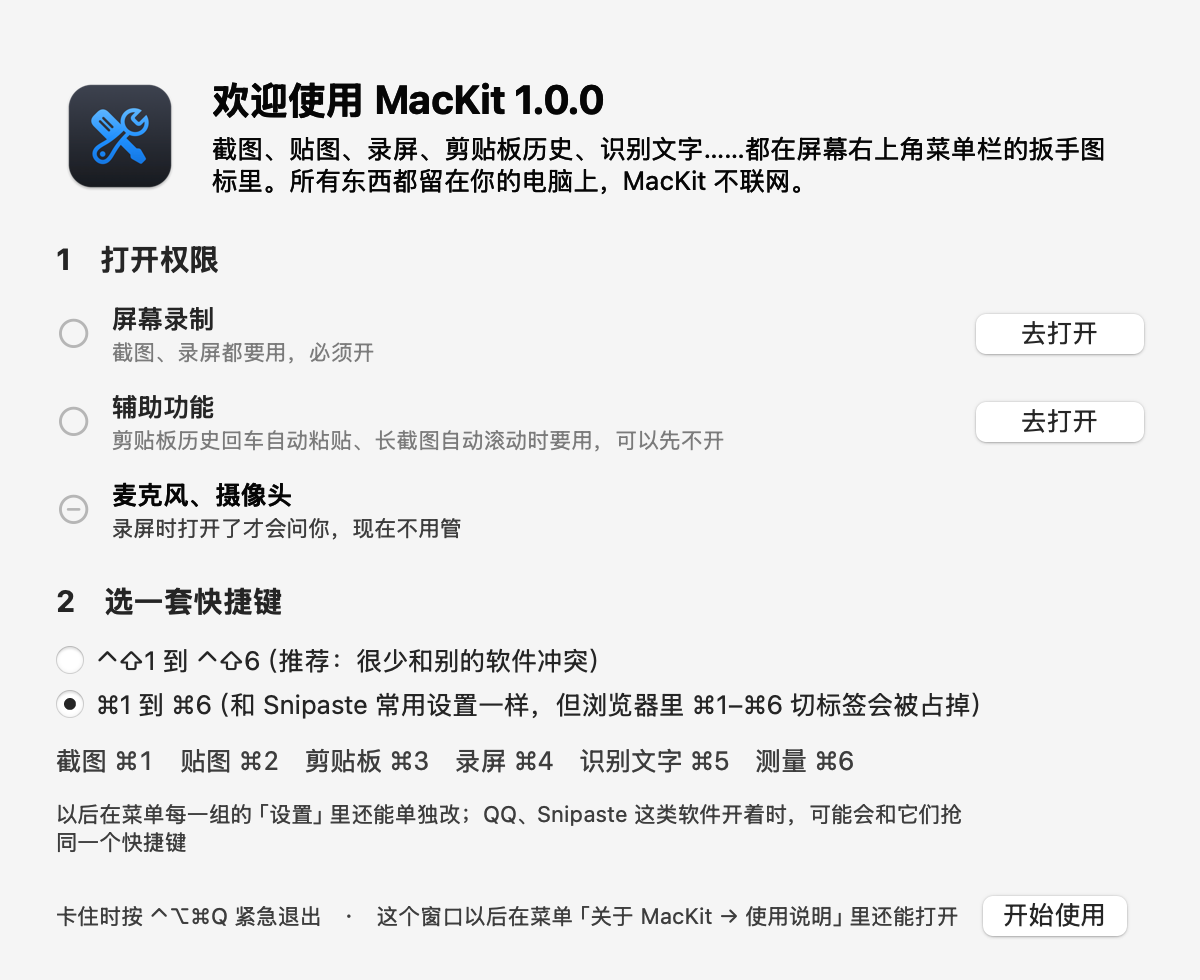
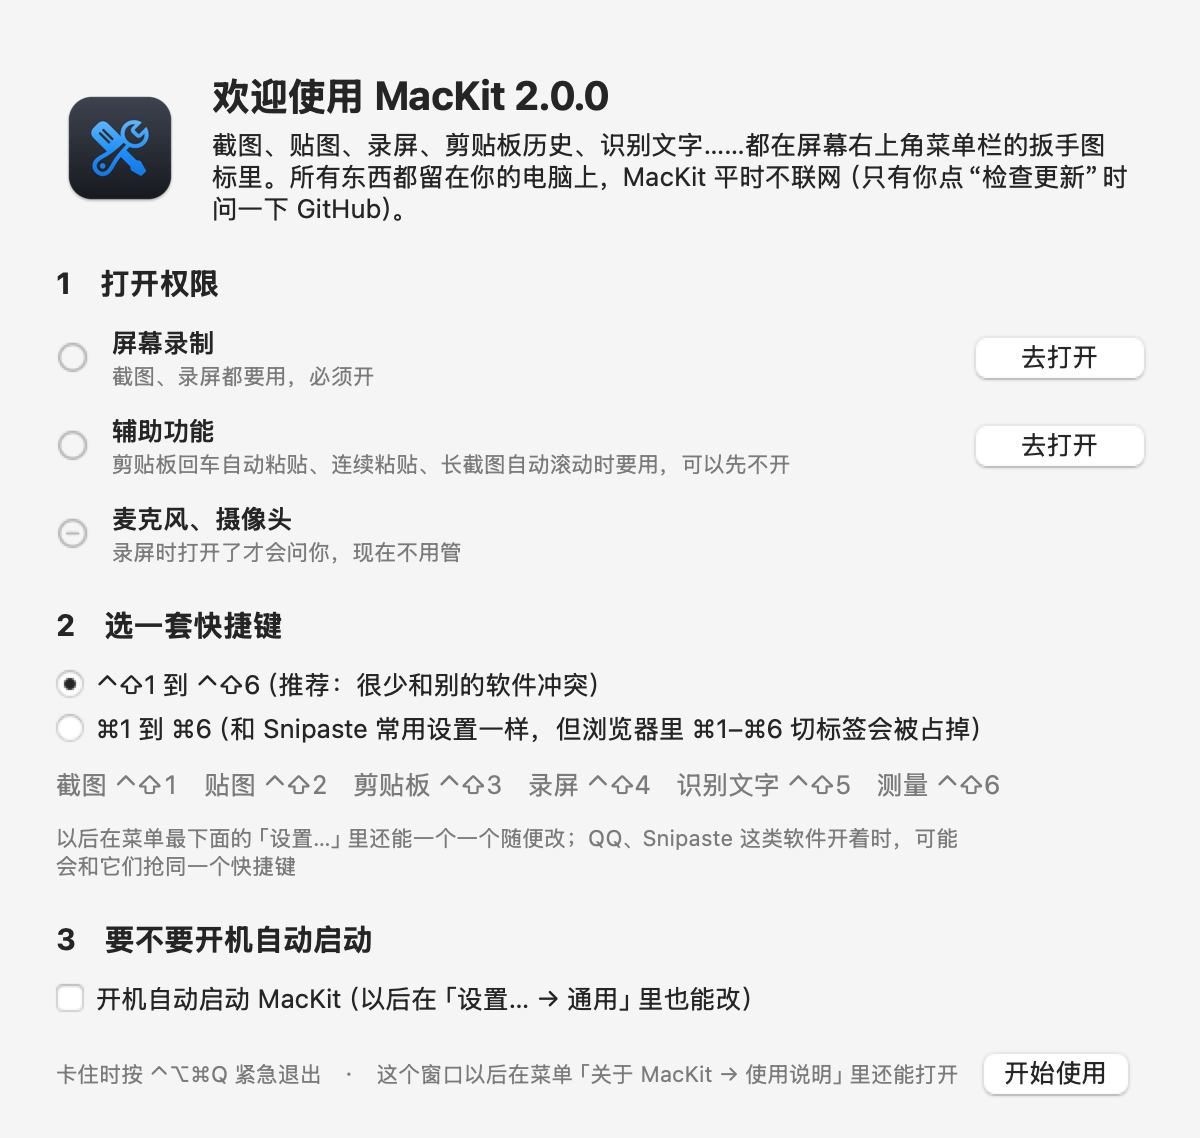
MacKit 2.0.0（台阶 18）
- 从 1.x 升上来第一次打开弹一次“MacKit 2.0 装好了”，“看看都有什么”打开更新说明；新用户只有欢迎窗口
- README 写上第二版的新东西，权限、常见问题补上辅助功能；重画界面一览、欢迎窗口，新加设置窗口的图
- CHANGELOG 2.0.0
- 新增自检 5 条

diff --git a/MacKit/App/StylePreview.swift b/MacKit/App/StylePreview.swift
@@ -14,50 +14,110 @@ enum StylePreview {
     static func runWelcome(arguments: [String]) {
         guard let i = arguments.firstIndex(of: "--welcome-preview"), arguments.indices.contains(i + 1) else { exit(2) }
         let dark = arguments.contains("dark")
+        useNewUserHotKeys()                                   // 画新用户看到的样子：⌃⇧ 那套选着
         let w = WelcomeWindow()
-        guard let content = w.window.contentView else { exit(1) }
-        content.appearance = NSAppearance(named: dark ? .darkAqua : .aqua)
-        content.layoutSubtreeIfNeeded()
-        content.displayIfNeeded()
-        guard let rep = content.bitmapImageRepForCachingDisplay(in: content.bounds) else { exit(1) }
-        content.cacheDisplay(in: content.bounds, to: rep)
-        guard let image = rep.cgImage, let space = CGColorSpace(name: CGColorSpace.sRGB),
-              let ctx = CGContext(data: nil, width: image.width, height: image.height, bitsPerComponent: 8, bytesPerRow: 0,
-                                  space: space, bitmapInfo: CGImageAlphaInfo.premultipliedLast.rawValue) else { exit(1) }
-        ctx.setFillColor((dark ? NSColor(white: 0.16, alpha: 1) : NSColor(white: 0.96, alpha: 1)).cgColor)
-        ctx.fill(CGRect(x: 0, y: 0, width: image.width, height: image.height))
-        ctx.draw(image, in: CGRect(x: 0, y: 0, width: image.width, height: image.height))
-        guard let out = ctx.makeImage(), write(out, to: arguments[i + 1]) else { exit(1) }
+        guard let content = w.window.contentView,
+              let out = renderView(content, dark: dark, background: dark ? NSColor(white: 0.16, alpha: 1) : NSColor(white: 0.96, alpha: 1),
+                                   fit: false),
+              write(out, to: arguments[i + 1]) else { exit(1) }
         print("欢迎窗口：\(arguments[i + 1])　\(out.width)×\(out.height)")
         exit(0)
     }
 
-    /// 设置窗口五页各画一张图（不弹窗口、不改设置）：--settings-preview 输出前缀 [dark] → 前缀-通用.png …
+    /// 设置窗口画成图（不弹窗口、不改设置）：
+    ///   --settings-preview 输出前缀 [dark]         → 五页各一张：前缀-通用.png …
+    ///   --settings-preview 输出.png readme [dark]  → README 用的一张：上面一排分页（照着系统样子画的）+ 快捷键页
     static func runSettings(arguments: [String]) {
         guard let i = arguments.firstIndex(of: "--settings-preview"), arguments.indices.contains(i + 1) else { exit(2) }
         let dark = arguments.contains("dark")
+        let background = dark ? NSColor(white: 0.16, alpha: 1) : NSColor(white: 0.93, alpha: 1)
         var hooks = SettingsHooks()
         hooks.dryRun = true
         let settings = SettingsWindow(hooks: hooks)
+        if arguments.contains("readme") {
+            useNewUserHotKeys()
+            guard let pane = settings.panes[.shortcuts]?.view else { exit(1) }
+            let page = settingsReadmeView(pane: pane, selected: .shortcuts)
+            guard let out = renderView(page, dark: dark, background: background), write(out, to: arguments[i + 1]) else { exit(1) }
+            print("设置窗口：\(arguments[i + 1])　\(out.width)×\(out.height)")
+            exit(0)
+        }
         for pane in SettingsWindow.Pane.allCases {
-            guard let view = settings.panes[pane]?.view else { exit(1) }
-            view.appearance = NSAppearance(named: dark ? .darkAqua : .aqua)
-            view.setFrameSize(view.fittingSize)
-            view.layoutSubtreeIfNeeded()
-            view.displayIfNeeded()
-            guard let rep = view.bitmapImageRepForCachingDisplay(in: view.bounds) else { exit(1) }
-            view.cacheDisplay(in: view.bounds, to: rep)
-            guard let image = rep.cgImage, let space = CGColorSpace(name: CGColorSpace.sRGB),
-                  let ctx = CGContext(data: nil, width: image.width, height: image.height, bitsPerComponent: 8, bytesPerRow: 0,
-                                      space: space, bitmapInfo: CGImageAlphaInfo.premultipliedLast.rawValue) else { exit(1) }
-            ctx.setFillColor((dark ? NSColor(white: 0.16, alpha: 1) : NSColor(white: 0.93, alpha: 1)).cgColor)
-            ctx.fill(CGRect(x: 0, y: 0, width: image.width, height: image.height))
-            ctx.draw(image, in: CGRect(x: 0, y: 0, width: image.width, height: image.height))
+            guard let view = settings.panes[pane]?.view, let out = renderView(view, dark: dark, background: background) else { exit(1) }
             let path = "\(arguments[i + 1])-\(pane.title).png"
-            guard let out = ctx.makeImage(), write(out, to: path) else { exit(1) }
+            guard write(out, to: path) else { exit(1) }
             print("设置 \(pane.title)：\(path)　\(out.width)×\(out.height)")
         }
         exit(0)
+    }
+
+    /// README 里画新用户默认的 ⌃⇧1–⌃⇧6：只在这个进程的内存里换（不写进你的设置）
+    private static func useNewUserHotKeys() {
+        let c = HotKeyScheme.control.indices
+        let temp: [String: Any] = ["screenshot.hotkeyIndex": c[0], "pin.hotkeyIndex": c[1], "clipboard.hotkeyIndex": c[2],
+                                   "record.hotkeyIndex": c[3], "ocr.hotkeyIndex": c[4], "measure.hotkeyIndex": c[5]]
+        UserDefaults.standard.setVolatileDomain(temp, forName: UserDefaults.argumentDomain)
+        let saved = UserDefaults.standard.persistentDomain(forName: Bundle.main.bundleIdentifier ?? "") ?? [:]
+        for a in HotKeyAction.allCases where saved[a.storeKey] != nil { print("（你单独改过\(a.title)，图里画的是你改的）") }
+    }
+
+    /// 一个视图按它合适的大小画成图（固定 2 倍清晰度，和接哪块屏幕无关），垫上底色
+    private static func renderView(_ view: NSView, dark: Bool, background: NSColor, fit: Bool = true) -> CGImage? {
+        view.appearance = NSAppearance(named: dark ? .darkAqua : .aqua)
+        if fit { view.setFrameSize(view.fittingSize) }
+        view.layoutSubtreeIfNeeded()
+        view.displayIfNeeded()
+        guard let rep = NSBitmapImageRep(bitmapDataPlanes: nil, pixelsWide: Int(view.bounds.width * 2),
+                                         pixelsHigh: Int(view.bounds.height * 2), bitsPerSample: 8, samplesPerPixel: 4,
+                                         hasAlpha: true, isPlanar: false, colorSpaceName: .deviceRGB, bytesPerRow: 0,
+                                         bitsPerPixel: 0) else { return nil }
+        rep.size = view.bounds.size
+        view.cacheDisplay(in: view.bounds, to: rep)
+        guard let image = rep.cgImage, let space = CGColorSpace(name: CGColorSpace.sRGB),
+              let ctx = CGContext(data: nil, width: image.width, height: image.height, bitsPerComponent: 8, bytesPerRow: 0,
+                                  space: space, bitmapInfo: CGImageAlphaInfo.premultipliedLast.rawValue) else { return nil }
+        ctx.setFillColor(background.cgColor)
+        ctx.fill(CGRect(x: 0, y: 0, width: image.width, height: image.height))
+        ctx.draw(image, in: CGRect(x: 0, y: 0, width: image.width, height: image.height))
+        return ctx.makeImage()
+    }
+
+    /// README 用：窗口标题 + 一排分页图标（选中的那页蓝色）+ 那一页
+    private static func settingsReadmeView(pane: NSView, selected: SettingsWindow.Pane) -> NSView {
+        let title = NSTextField(labelWithString: "MacKit 设置")
+        title.font = .systemFont(ofSize: 13, weight: .semibold)
+        var tabs: [NSView] = []
+        for p in SettingsWindow.Pane.allCases {
+            let on = p == selected
+            let icon = NSImageView(image: NSImage(systemSymbolName: p.symbol, accessibilityDescription: p.title)?
+                .withSymbolConfiguration(.init(pointSize: 20, weight: .regular)) ?? NSImage())
+            icon.contentTintColor = on ? Theme.accent : .secondaryLabelColor
+            let label = NSTextField(labelWithString: p.title)
+            label.font = .systemFont(ofSize: 11)
+            label.textColor = on ? Theme.accent : .secondaryLabelColor
+            let item = NSStackView(views: [icon, label])
+            item.orientation = .vertical
+            item.spacing = 3
+            item.edgeInsets = NSEdgeInsets(top: 5, left: 10, bottom: 5, right: 10)
+            item.wantsLayer = true
+            item.layer?.cornerRadius = 6
+            if on { item.layer?.backgroundColor = NSColor.secondaryLabelColor.withAlphaComponent(0.12).cgColor }
+            tabs.append(item)
+        }
+        let strip = NSStackView(views: tabs)
+        strip.spacing = 4
+        let divider = NSBox()
+        divider.boxType = .separator
+        let head = NSStackView(views: [title, strip])
+        head.orientation = .vertical
+        head.spacing = 8
+        head.edgeInsets = NSEdgeInsets(top: 12, left: 0, bottom: 10, right: 0)
+        let page = NSStackView(views: [head, divider, pane])
+        page.orientation = .vertical
+        page.spacing = 0
+        page.alignment = .centerX
+        divider.widthAnchor.constraint(equalTo: page.widthAnchor).isActive = true
+        return page
     }
 
     static func run(arguments: [String]) {
@@ -93,6 +153,10 @@ enum StylePreview {
         pinBar.update(tool: .arrow, color: .red, size: .medium, canUndo: true, canRedo: false)
         list.append(Sample(title: "贴图上标注的工具栏", view: pinBar))
 
+        let penBar = AnnotationToolbar(mode: .liveDraw, standalone: true)
+        penBar.update(tool: .pen, color: .red, size: .medium, canUndo: true, canRedo: false)
+        list.append(Sample(title: "屏幕画笔的小工具（录屏时、开会共享屏幕时在屏幕上画）", view: penBar))
+
         list.append(Sample(title: "按钮：普通 / 鼠标放上去 / 按下 / 选中 / 主按钮 / 停止", view: buttonStrip()))
 
         let control = RecordingControlBar(systemAudio: true, microphone: false)
@@ -118,6 +182,9 @@ enum StylePreview {
                                           actions: [("预览剪辑", {}), ("存成 GIF", {}), ("在访达中显示", {})]).contentView {
             list.append(Sample(title: "带按钮的提示条", view: v))
         }
+        let queue = PasteQueueBar()
+        queue.update("连续粘贴 2 / 5　下一条：发票抬头：某某公司")
+        if let v = queue.panel.contentView { list.append(Sample(title: "连续粘贴的小条（每按一次 ⌘V 贴下一条）", view: v)) }
 
         let keys = KeyCastWindow()
         keys.show("⌘C", present: false)

diff --git a/MacKit/Core/Settings.swift b/MacKit/Core/Settings.swift
@@ -382,10 +382,17 @@ enum Settings {
         set { store.set(newValue, forKey: "welcome.done") }
     }
 
+    /// 上次打开的是哪个版本（2.0 起记；nil = 2.0 以前的版本没记过）
+    static var lastVersion: String? {
+        get { store.string(forKey: "app.lastVersion") }
+        set { store.set(newValue, forKey: "app.lastVersion") }
+    }
+
     /// 这台电脑上以前用过 MacKit 没有：设置里有 MacKit 自己的东西，或者存过剪贴板历史
     static var hasPreviousData: Bool {
         let domain = store.persistentDomain(forName: Bundle.main.bundleIdentifier ?? "local.mackit.MacKit") ?? [:]
-        let own = domain.keys.filter { !$0.hasPrefix("NS") && !$0.hasPrefix("Apple") && !$0.hasPrefix("com.apple") && $0 != "welcome.done" }
+        let own = domain.keys.filter { !$0.hasPrefix("NS") && !$0.hasPrefix("Apple") && !$0.hasPrefix("com.apple")
+            && $0 != "welcome.done" && $0 != "app.lastVersion" }
         let support = FileManager.default.urls(for: .applicationSupportDirectory, in: .userDomainMask).first?
             .appendingPathComponent("MacKit", isDirectory: true)
         return !own.isEmpty || support.map { FileManager.default.fileExists(atPath: $0.path) } == true
@@ -428,5 +435,21 @@ enum FirstLaunch: Equatable {
     static func decide(done: Bool, hasPreviousData: Bool) -> FirstLaunch {
         if done { return .nothing }
         return hasPreviousData ? .keepOldHotKeys : .welcome
+    }
+}
+
+/// 2.0 起：以前用过 MacKit 的人，第一次打开新的大版本时弹一次"装好了"的提示条（台阶 18 拍板 A）
+enum WhatsNew {
+    /// 新用户走欢迎窗口，不弹；上次打开的大版本比现在小才弹（没记过 = 2.0 以前的 1.x）
+    static func shouldShow(firstLaunch: FirstLaunch, lastVersion: String?, current: String) -> Bool {
+        guard firstLaunch != .welcome else { return false }
+        let now = AppVersion.parts(current).first ?? 0
+        let before = lastVersion.flatMap { AppVersion.parts($0).first } ?? 1
+        return now >= 2 && now > before
+    }
+
+    static func message(for version: String) -> String {
+        let major = AppVersion.parts(version).first ?? 2
+        return "MacKit \(major).0 装好了：截图能美化、剪贴板能收藏、设置都在菜单最下面"
     }
 }

diff --git a/MacKit/App/SelfTest.swift b/MacKit/App/SelfTest.swift
@@ -2027,6 +2027,20 @@ enum SelfTest {
               && !aboutTitles.contains("看看有没有新版本")
               && AppLinks.home.absoluteString == "https://github.com/itzzan/MacKit" && AppLinks.releases.path == "/itzzan/MacKit/releases",
               "关于 MacKit：使用说明、项目主页、检查更新…")
+        // 2.0 起：老用户第一次打开新的大版本弹一次提示条（台阶 18）
+        check(WhatsNew.shouldShow(firstLaunch: .nothing, lastVersion: nil, current: "2.0.0")
+              && WhatsNew.shouldShow(firstLaunch: .keepOldHotKeys, lastVersion: nil, current: "2.0.0")
+              && WhatsNew.shouldShow(firstLaunch: .nothing, lastVersion: "1.6.0", current: "2.0.0"),
+              "从 1.x 升到 2.0：第一次打开弹\u{201C}MacKit 2.0 装好了\u{201D}")
+        check(!WhatsNew.shouldShow(firstLaunch: .welcome, lastVersion: nil, current: "2.0.0"), "新用户第一次装 2.0：只有欢迎窗口，不弹这个")
+        check(!WhatsNew.shouldShow(firstLaunch: .nothing, lastVersion: "2.0.0", current: "2.0.0")
+              && !WhatsNew.shouldShow(firstLaunch: .nothing, lastVersion: "2.0.0", current: "2.1.0"),
+              "再打开、升到 2.1：不再弹")
+        check(!WhatsNew.shouldShow(firstLaunch: .nothing, lastVersion: nil, current: "1.6.0"), "1.x 自己不弹")
+        let whatsNew = Toast.makeActionsPanel(WhatsNew.message(for: "2.0.0"), actions: [("看看都有什么", {})])
+        check(WhatsNew.message(for: "2.0.0").hasPrefix("MacKit 2.0 装好了") && whatsNew.frame.width < 760 && !whatsNew.isVisible
+              && AppLinks.releaseNotes("2.0.0").absoluteString == "https://github.com/itzzan/MacKit/releases/tag/v2.0.0",
+              "提示条写着\u{201C}MacKit 2.0 装好了\u{201D}，\u{201C}看看都有什么\u{201D}打开 GitHub 上 2.0 的更新说明（\(Int(whatsNew.frame.width)) 点宽）")
         let parts = AppInfo.version.split(separator: ".").compactMap { Int($0) }
         check(parts.count == 3 && parts[0] >= 1, "版本号是三段数字、1 以上：\(AppInfo.version)")
     }

diff --git a/MacKit/App/AppDelegate.swift b/MacKit/App/AppDelegate.swift
@@ -101,6 +101,10 @@ final class AppDelegate: NSObject, NSApplicationDelegate, NSMenuDelegate {
         case .nothing:
             break
         }
+        // 2.0 起：老用户第一次打开新的大版本弹一次提示；自检不记、不弹（和你真的设置是同一份）
+        let showWhatsNew = !selfTest
+            && WhatsNew.shouldShow(firstLaunch: firstLaunch, lastVersion: Settings.lastVersion, current: AppInfo.version)
+        if !selfTest { Settings.lastVersion = AppInfo.version }
 
         let item = NSStatusBar.system.statusItem(withLength: NSStatusItem.squareLength)
         if let button = item.button {
@@ -140,6 +144,16 @@ final class AppDelegate: NSObject, NSApplicationDelegate, NSMenuDelegate {
         if firstLaunch == .welcome {
             Settings.welcomeDone = true
             showWelcome()
+        }
+        if showWhatsNew {
+            let version = AppInfo.version
+            Log.app.notice("whats new \(version, privacy: .public)")
+            Task { @MainActor in
+                try? await Task.sleep(for: .seconds(1.5))              // 等菜单栏图标先出来
+                Toast.showActions(WhatsNew.message(for: version), actions: [
+                    ("看看都有什么", { NSWorkspace.shared.open(AppLinks.releaseNotes(version)) }),
+                ], seconds: 15)
+            }
         }
 
         if selfTest {

diff --git a/MacKit/App/WelcomeWindow.swift b/MacKit/App/WelcomeWindow.swift
@@ -5,6 +5,11 @@ import ApplicationServices
 enum AppLinks {
     static let home = URL(string: "https://github.com/itzzan/MacKit")!
     static let releases = URL(string: "https://github.com/itzzan/MacKit/releases")!
+
+    /// 某个版本的更新说明（GitHub 上的发布页）
+    static func releaseNotes(_ version: String) -> URL {
+        URL(string: "https://github.com/itzzan/MacKit/releases/tag/v\(version)")!
+    }
 }
 
 /// 欢迎窗口（1.0 起）：新用户第一次打开时出现；以后在"关于 MacKit → 使用说明"里再打开。
@@ -72,7 +77,7 @@ final class WelcomeWindow: NSObject, NSWindowDelegate {
             ScreenPermission.requestAndOpenSettings()
         }
         let access = permissionRow(key: "accessibility", title: "辅助功能",
-                                   detail: "剪贴板历史回车自动粘贴、长截图自动滚动时要用，可以先不开") {
+                                   detail: "剪贴板回车自动粘贴、连续粘贴、长截图自动滚动时要用，可以先不开") {
             ClipboardPaster.requestAccessibility()
             ClipboardPaster.openAccessibilitySettings()
         }

diff --git a/docs/开发记录/台阶18-发布2.0.md b/docs/开发记录/台阶18-发布2.0.md
@@ -1,4 +1,4 @@
-# 台阶 18：发布 MacKit 2.0 — 任务单（已拍板）
+# 台阶 18：发布 MacKit 2.0 — 任务单（已拍板，11-05 验收通过）
 
 > 2026-11-05 写，同日你审过：四条都按建议。第二版的最后一阶：把台阶 12–17 做的东西一起公开发布成 2.0。
 > 第二版方案已拍板：照旧临时签名（先不办苹果开发者计划）、检查更新只在你点的时候问 GitHub、英文界面以后再说、不做自动下载安装。
@@ -65,6 +65,28 @@
    - A. 另一台 Mac 或朋友的电脑（建议）：从头走一遍别人会走的路，开机启动也能顺便试
    - B. 你这台：会把系统记的屏幕录制、辅助功能权限换成发布版的，之后你自己的版本要重新授权一遍
    - C. 不试装，只让我查包里的东西：快，但"仍要打开"、欢迎窗口、开机启动这几步就没人走过
+
+## 做了什么、自动检查了什么（11-05）
+
+| 检查 | 结果 |
+|---|---|
+| 单元测试 188 条 | 全过 |
+| 编译（Xcode 26.3） | 没有错误和警告 |
+| 应用自检 444 条（新增 5 条：从 1.x 升上来弹一次、新用户不弹、再开和升 2.1 不弹、1.x 不弹、提示条的字和链接） | 全过；自检不记版本号、不弹提示 |
+| 你这台装 2.0.0 | ⌘1–⌘6 照旧注册，剪贴板 54 条都在；日志里"whats new 2.0.0"，弹了一次提示条 |
+| 安装包 build/release/MacKit-2.0.0.dmg（3.1 MB，Apple 芯片 + Intel） | 临时签名，签名里没有团队编号、证书名字；包里查过没有邮箱；里面是 MacKit 2.0.0（22）和"应用程序"的快捷方式；校验码对得上 |
+
[1 lines of base64/hex data omitted]
+
+改了哪些：
+- 老用户提示：设置里记"上次打开的是哪个版本"（app.lastVersion）；以前用过 MacKit、第一次见 2.x 才弹"MacKit 2.0 装好了：截图能美化、剪贴板能收藏、设置都在菜单最下面"，"看看都有什么"打开 GitHub 上 v2.0.0 的发布页；新用户只有欢迎窗口
+- README：能干什么写上第二版的新东西；权限表、常见问题补上辅助功能（连续粘贴、更新后要重新给）；快捷键一节加了设置窗口的图
+- 三张图重画（MacKit 自己画的，图里是新用户默认的 ⌃⇧1–⌃⇧6；只在画图的那个进程里临时换，没写进你的设置）：界面一览（多了模糊、美化按钮、屏幕画笔的小工具、录制小条上的"画笔"、连续粘贴的小条）、欢迎窗口（2.0.0、开机自动启动）、设置窗口（新）
+- 欢迎窗口里辅助功能那一行加上"连续粘贴"
+- --settings-preview 加了 readme 画法；画图固定 2 倍清晰度，和接哪块屏幕无关
+- CHANGELOG："未发布"改成"2.0.0（2026-11-05）"；真正发布那天不是 11-05 的话再改日期
+- 版本号 2.0.0（build 22）
+- 更新说明草稿：build/发布说明-2.0.0.md（不进 git）
 
 ## 怎么验收
 

diff --git a/docs/开发记录/方案.md b/docs/开发记录/方案.md
@@ -1,7 +1,7 @@
 # Mac 工具箱（暂定名 MacKit）— 方案 v0.1
 
 > 日期：2026-10-28
-> 这是给你审核的"人话版"方案。台阶 0 到 10 都已验收；台阶 11 上线第一版也验收了，MacKit 1.0.0 发布在 GitHub Releases；第二版方案（docs/开发记录/第二版方案.md）你已审过，台阶 12 标注升级已验收，台阶 13 截图美化 + 贴图加强已验收，台阶 14 剪贴板加强已验收，台阶 15 识别加强已验收，台阶 16 录屏时在屏幕上画已验收，台阶 17 设置窗口已验收，台阶 18 发布 2.0 的任务单你已审过，正在做；"以后统一优化"的事记在第十节末尾。
+> 这是给你审核的"人话版"方案。台阶 0 到 10 都已验收；台阶 11 上线第一版也验收了，MacKit 1.0.0 发布在 GitHub Releases；第二版方案（docs/开发记录/第二版方案.md）你已审过，台阶 12 标注升级已验收，台阶 13 截图美化 + 贴图加强已验收，台阶 14 剪贴板加强已验收，台阶 15 识别加强已验收，台阶 16 录屏时在屏幕上画已验收，台阶 17 设置窗口已验收，台阶 18 发布 2.0 已验收，正在发布；"以后统一优化"的事记在第十节末尾。
 
 ## 一、一句话目标
 
@@ -242,8 +242,9 @@ sudo xcodebuild -runFirstLaunch
 - [x] 台阶 17 写代码：11-05 写完，自动检查全过（单元 188、自检 439），1.6.0 已装好并在运行
 - [x] 你亲手验收台阶 17，通过（11-05）
 - [x] 台阶 18 发布 2.0：任务单 docs/开发记录/台阶18-发布2.0.md 你审过（11-05，都按建议：更新说明按功能分组 + 升级须知、老用户第一次开 2.0 弹一次提示条、重画 README 三张图、在另一台 Mac 试装）
-- [ ] 台阶 18 做发布前的收拾、试装
-- [ ] 你试装验收台阶 18，发布 2.0
+- [x] 台阶 18 发布前的收拾：11-05 做完，自动检查全过（单元 188、自检 444），2.0.0 已装好并在运行，安装包 MacKit-2.0.0.dmg 做好
+- [x] 你验收台阶 18，通过（11-05）
+- [ ] 在 GitHub 上发布 2.0.0
 
 ### 以后统一优化（你说先记着，之后一起做）
 

diff --git a/CHANGELOG.md b/CHANGELOG.md
@@ -1,6 +1,8 @@
 # 更新记录
 
-## 未发布（第二版进行中，做完一起发布成 2.0）
+## 2.0.0（2026-11-05）
+
+第二版：截图标注更好改、剪贴板更好管、截出来的图更好看，新用户更好上手。
 
 - 标注：画好的箭头、框、圈、笔画、马赛克、文字、序号，点一下就能选中再改——拖动、改大小、拖箭头的头尾、换颜色和粗细、⌫ 删除；拖一次撤销一步；方向键微调
 - 标注：新增"模糊"打码（快捷键 B），轻 / 中 / 重三档
@@ -18,6 +20,8 @@
 - 快捷键随便设：点一下、按你想要的组合；和自己别的快捷键撞了、单按字母、系统要用的（⇧⌘4 等）不让设；每行能恢复默认，两套能一键套用
 - 开机自动启动：设置里勾一下（默认不开），欢迎窗口里也能勾
 - 检查更新：点了才问 GitHub 最新版本，有新的给"去下载"（不自动下载安装）
+- 从 1.0 升级：设置、快捷键、剪贴板历史都接着用（以前"置顶"的变成"收藏"）；第一次打开弹一次"MacKit 2.0 装好了"
+- README：写上第二版的新东西，重画界面一览、欢迎窗口，新加设置窗口的图
 
 ## 1.0.0（2026-11-05）
 
